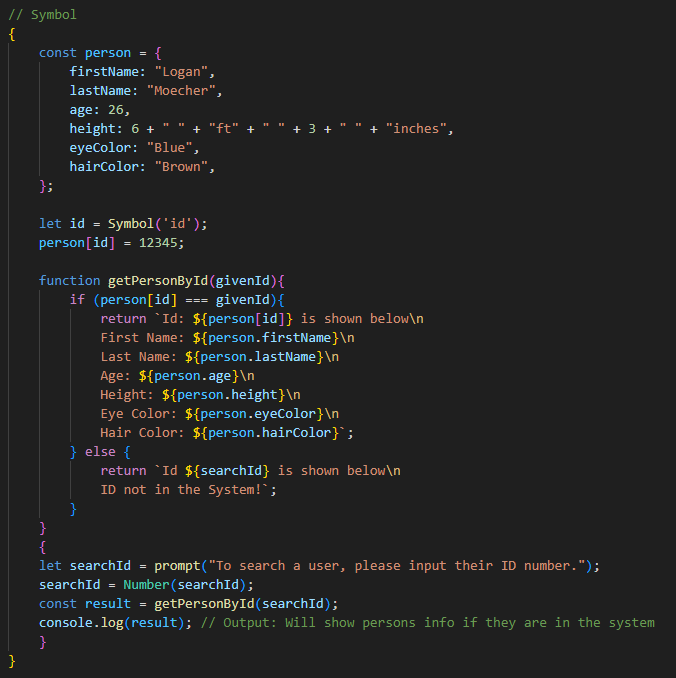
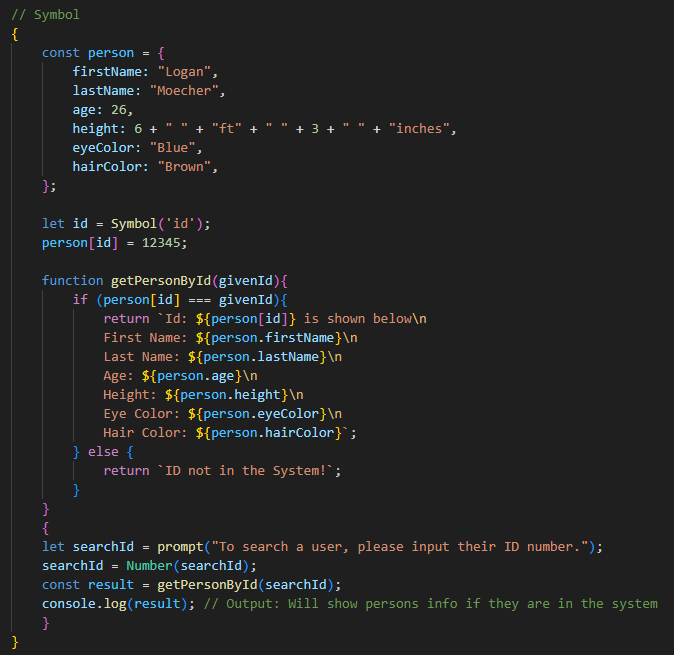
updating

diff --git a/javascript/js_basics/primitives_value_types/primitives_value_types_code/index.js b/javascript/js_basics/primitives_value_types/primitives_value_types_code/index.js
@@ -85,8 +85,7 @@
             Eye Color: ${person.eyeColor}\n
             Hair Color: ${person.hairColor}`; 
         } else {
-            return `Id ${searchId} is shown below\n
-            ID not in the System!`;
+            return `ID not in the System!`;
         }
     }
     {

diff --git a/javascript/js_basics/primitives_value_types/README.md b/javascript/js_basics/primitives_value_types/README.md
@@ -48,7 +48,13 @@
 
 ### Output
 
+##### *String* application running in the Browser Console
 
+![String IMG 2](img/strings_img_2.PNG "String IMG 2")
+
+##### *String* application running in Command Prompt
+
+![String IMG 3](img/strings_img_3.PNG "String IMG 3")
 
 ## Number 
 
